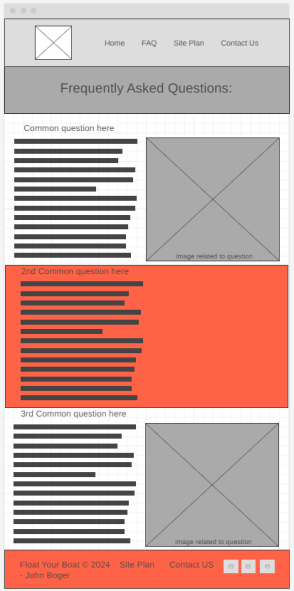
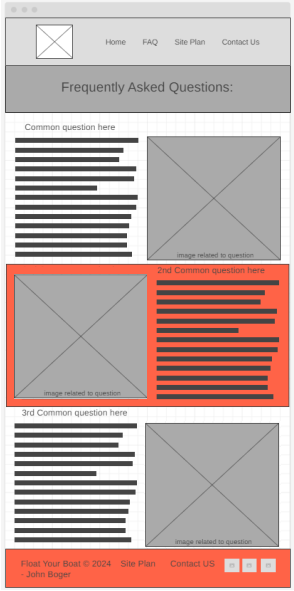
Finishing up wwr page

diff --git a/wdd130/wwr/faq.html b/wdd130/wwr/faq.html
@@ -1,0 +1,70 @@
+<!DOCTYPE html>
+<html lang="en">
+<head>
+    <meta charset="UTF-8">
+    <meta name="viewport" content="width=device-width, initial-scale=1.0">
+    <link rel="stylesheet" href="styles/styles.css">
+    <title>Whitewater Rafting | Float Your Boat Rafting | FAQ</title>
+</head>
+<body>
+    <div id="content">
+        <header>
+            <!-- Logo + Four elements with nav link connections -->
+            <a id="logo_link" href="index.html">
+                <img class="logo"
+                src="images/river.jpg"
+                alt="Float Your Boat Rafting logo">
+            </a>
+
+            <nav>
+                <!-- href = hypertext reference tags -->
+                <a href="index.html">Home</a>
+                <a href="faq.html">FAQ</a>
+                <a href="site-plan-rafting.html">Site Plan</a>
+                <a href="contactus.html">Contact Us</a>
+            </nav>
+        </header>
+        <div id="faq_top">Frequently Asked Questions:</div>
+        <main class="faq_grid"> <!-- Content that changes from page to page -->
+            <img class="kids_img" src="images/faq_group.jpg" alt="Rafting group cheering together">
+            <section class="kids">
+                <h4>Is this a good trip for kids?</h4>
+                <p>Absolutely this is a good trip for children of all ages. We have found however that children over the age of 8 seem to enjoy it more overall (And parents especially enjoy it more if their children are all over 8). A common concern we get from parents is that their children will be bored stuck on a boat for hours at a time. Surprisingly we deal with very few bored children of any age. The areas we are rafting through are some of the most beautiful in the world, and you never know what you might see around any corner. Not to mention the rapids which keep things very interesting. Each boat also comes equipped with a guide. It has been proven that river guides are unable to go for very long at all without telling stories... some of which may even be true!</p>
+            </section>
+            <img class="trip_img" src="images/faq_included.jpg" alt="Rafting stand with ammenities">
+            <div class="background_fix"></div>
+            <section class="trip">
+                <h4>What is included in the trip?</h4>
+                <p>We will provide all necessary camping equipment. This includes a sleeping bag, foam pad, waterproof duffle bag, small waterproof day bag, tent and a cot, eating utensils and camping chair.
+                    We also provide water and lemonade during the day. Coffee, tea and hot chocolate are provided during the morning and evening hours and can be requested separately. You may bring beer, liquor and soft drinks (in reasonable amounts, 2 cans per day). You may purchase these items either the night before the trip, or on your way to the put-in. 3 meals per day, plus snacks.</p>
+            </section>
+            <img class="safety_img" src="images/faq_gear.jpg" alt="Close up of safety gear and raft">
+            <section class="safety">
+                <h4>Is whitewater rafting safe?</h4>
+                <p>As with all adventure sports, there is an inherent and assumed element of risk. We have hosted a number of parties that included members with little to no knowledge on how to swim.
+                    To help ensure your safety, our guides are all certified in Wilderness First aid and all start with at least 3 years of rafting experience.
+                    Additionally, everyone on commercial rafting trips wears coast guard approved life vest or personal flotation device (PFD). Many non swimmers go on rafting trips and have a great time. Your guide will give you an in depth and engaging safety talk before your trip begins explaining what you should prepare for and do in the event that you fall out of the raft.</p>
+                <h5>Fun fact: The most common injuries actually are sunburns and injuries that occur on land. As you listen to our guides and stay safe, you'll have loads of fun with us!</h5>
+            </section>
+        </main>
+        <footer>
+            <!-- Something at the bottom that is on every page -->
+            <p>Float Your Boat &copy; 2024 - John Boger</p>
+            <p><a href="site-plan-rafting.html" target="_blank">Site Plan</a></p>
+            <p><a href="contactus.html" target="_blank">Contact Us</a></p>
+            <div class="social">
+                <a href="https://facebook.com" target="_blank">
+                    <!-- target="_blank" opens a new tab when the link is pressed-->
+                    <img src="images/facebook.png" alt="fb icon">
+                </a>
+                <a href="https://twitter.com" target="_blank">
+                    <img src="images/twitter.png" alt="twitter icon">
+                </a>
+                <a href="https://intagram.com" target="_blank">
+                    <img src="images/instagram.png" alt="instagram icon">
+                </a>
+            </div>
+        </footer>
+    </div>
+</body>
+</html>

diff --git a/wdd130/wwr/styles/styles.css b/wdd130/wwr/styles/styles.css
@@ -1,3 +1,10 @@
+/* # for id */
+/* . for class */
+
+/* for testing */
+/*  border-width: 10px;
+    border-color: black;
+    border-style: solid; */
 
 @import url('https://fonts.googleapis.com/css2?family=Finger+Paint&family=Livvic&display=swap');
 
@@ -139,11 +146,15 @@ h4 {
     padding-bottom: 15px;
 }
 
+#main_extra_footer_padding {
+    margin-top: 180px;
+}
+
 footer {
     color: #78C091;
     background-color: #563635;
     padding: 25px 50px;
-    margin-top: 200px;
+    margin-top: 20px;
     display: flex;
     justify-content: space-around;
     align-items: center;
@@ -235,6 +246,117 @@ footer .social img {
 #hero-msg h4 {
     color:#78C091;
 }
+
+
+/* Above is home page, below is FAQ page, far below is media interaction for both */
+#faq_top {
+    width: 100%;
+    text-align: center;
+    padding: 25px 0px;
+    background-color: #563635;
+    color:#78C091;
+    font-size: 1.8em;
+    font-weight: 200;
+    font-family: "Finger Paint", 'Lucida Sans Unicode', 'Lucida Grande', 'Lucida Sans', Arial, sans-serif;
+}
+.faq_grid {
+    display:grid;
+    grid-template-columns: 1fr 1fr;
+    grid-template-rows: 1fr 1fr 1fr;
+    width: 100%;
+    height: auto;
+}
+
+.kids {
+    text-align: center;
+    justify-self: center;
+    margin: 0px 20px;
+    grid-column: 1/2;
+    grid-row: 1/2;
+    font-family: Livvic, Helvetica, sans-serif;
+}
+.kids h4 {
+    color: #81F0E5;
+    margin-bottom: -5px;
+}
+.kids p {
+    color: #78C091;
+    font-size: 0.8em;
+}
+.kids_img {
+    width: 80%;
+    border: 10px solid #563635;
+    box-shadow: 5px 5px 10px #6f7364;
+    grid-column: 2/3;
+    grid-row: 1/2;
+    margin: auto 20px;
+}
+
+.trip {
+    background-color: #563635;
+    text-align: center;
+    justify-self: center;
+    margin: auto 20px;
+    grid-column: 2/3;
+    grid-row: 2/3;
+    font-family: Livvic, Helvetica, sans-serif;
+}
+.trip h4 {
+    color: #81F0E5;
+    margin-bottom: -5px;
+}
+.trip p {
+    color:#78C091;
+    font-size: 0.8em;
+    padding: 0px 4px;
+    padding-bottom: 30px;
+}
+.trip_img {
+    width: 80%;
+    border: 10px solid #78C091;
+    box-shadow: 5px 5px 10px #6f7364;
+    grid-column: 1/2;
+    grid-row: 2/3;
+    margin: auto 20px;
+    margin-left: 40px;
+}
+.background_fix {
+    background-color: #563635;
+    grid-column: 1/3;
+    grid-row: 2/3;
+    z-index: -1;
+}
+
+.safety {
+    text-align: center;
+    justify-self: center;
+    margin: 0px 20px;
+    grid-column: 1/2;
+    grid-row: 3/4;
+    font-family: Livvic, Helvetica, sans-serif;
+}
+.safety h4 {
+    color: #81F0E5;
+    margin-bottom: -5px;
+}
+.safety p {
+    color: #78C091;
+    font-size: 0.8em;
+}
+.safety h5 {
+    color:#81F0E5;
+    font-size: 0.7em;
+    margin-top: -5px;
+}
+.safety_img {
+    width: 80%;
+    border: 10px solid #563635;
+    box-shadow: 5px 5px 10px #6f7364;
+    grid-column: 2/3;
+    grid-row: 3/4;
+    margin: auto 20px;
+}
+
 
 
 

diff --git a/wdd130/w09challenge/index.html b/wdd130/w09challenge/index.html
@@ -1,0 +1,34 @@
+
+<!DOCTYPE html>
+<html lang="en">
+<head>
+    <meta charset="UTF-8">
+    <meta name="viewport" content="width=device-width, initial-scale=1.0">
+    <link rel="stylesheet" href="styles/styles.css">
+    <title>W09 Challenge</title>
+</head>
+<body>
+    <main>
+        <div id="bridge-img">
+            <img src="images/w09_ice_img.jpg" alt="bridge and cityscape">
+        </div>
+        <h4>3 weeks ago</h4>
+        <h1>Post Three</h1>
+        <p id="fancy">This would be some text to go here and tell you about this awesome article that they should definitely read. This would be some text to go here and tell you about this awesome article that they should definitely read. This would be some text to go here.</p>
+        <div class="footer">
+            <section>
+                <p>5<sup>m</sup></p>
+                <p class="small">READ</p>
+            </section>
+            <section class="middle">
+                <p>2031</p>
+                <p class="small">VIEWS</p>            
+            </section>
+            <section class="right">
+                <p>15</p>
+                <p>COMMENTS</p>  
+            </section>
+        </div>
+    </main>
+</body>
+</html>

diff --git a/wdd130/w09challenge/styles/styles.css b/wdd130/w09challenge/styles/styles.css
@@ -1,0 +1,56 @@
+/* 1e1e1e for dark gray background */
+/* white for text background */
+/* 405c89 for blue bottom and 3 weeks ago */
+/* black for h1 post three */
+/* 8b808b for p text */
+/* 808080 for divider between bottom sections not above or below or outside */
+
+
+body {
+    display: grid;
+    grid-template-columns: 1fr 1fr 1fr;
+    justify-items: center;
+    background-color: #1e1e1e;
+}
+main {
+    grid-column: 2/3;
+    text-align: center;
+    background-color: white;
+}
+main p {
+    overflow-x: hidden;
+    overflow-y: auto;
+    color: white;
+    font-size: 1.3em;
+}
+#fancy {
+    color:#8b808b;
+}
+main h4 {
+    color: #405c89;
+}
+.footer {
+    display: grid;
+    grid-template-columns: 1fr 1fr 1fr;
+    justify-items: center;
+    text-align: center;
+
+    width: 100%;
+    font-size: 1.4em;
+    font-family:'Times New Roman', Times, serif;
+
+    background-color: #405c89;
+}
+.small {
+    font-size: 0.8em
+}
+.middle {
+    width: 100%;
+    border-left: #808080;
+    border-left-width: 1px;
+    border-left-style: solid;
+
+    border-right: #808080;
+    border-right-width: 1px;
+    border-right-style: solid;
+}

diff --git a/wdd130/wwr/index.html b/wdd130/wwr/index.html
@@ -20,7 +20,7 @@
             <nav>
                 <!-- href = hypertext reference tags -->
                 <a href="index.html">Home</a>
-                <a href="#">Page 2</a>
+                <a href="faq.html">FAQ</a>
                 <a href="site-plan-rafting.html">Site Plan</a>
                 <a href="contactus.html">Contact Us</a>
             </nav>
@@ -63,6 +63,7 @@
             <a class="join" href="rivers.html">Join Us</a>
         </section>
         </main>
+        <div id="main_extra_footer_padding"></div>
         <footer>
             <!-- Something at the bottom that is on every page -->
             <p>Float Your Boat &copy; 2024 - John Boger</p>

diff --git a/wdd130/wwr/styles/site-plan-rafting.css b/wdd130/wwr/styles/site-plan-rafting.css
@@ -21,7 +21,7 @@ Fonts are separated by a & */
   --paragraph-color-on-white: #396E94; /* paragraph text on a white background */ 
   --paragraph-color-on-color: #78C091 ; /* paragraph text on a colored background */ 
   --paragraph-background-color: #563635  ;
-  --nav-link-color: #396E94;
+  --nav-link-color: #5B6057;
   --nav-background-color: #81F0E5;
   --nav-hover-link-color: #563635;
   --nav-hover-background-color: #78C091;

diff --git a/wdd130/wwr/site-plan-rafting.html b/wdd130/wwr/site-plan-rafting.html
@@ -89,8 +89,8 @@
     <h3>Navigation</h3>
     <!-- Think about how you want your navigation bar to look. In the site-plan.css file change the colors to your colors to get the look you desire. -->
     <nav>
-      <a href="#">Home</a>
-      <a href="#">FAQ</a>
+      <a href="index.html">Home</a>
+      <a href="faq.html">FAQ</a>
       <a href="#">Contact Us</a>
     </nav>
     <hr />
